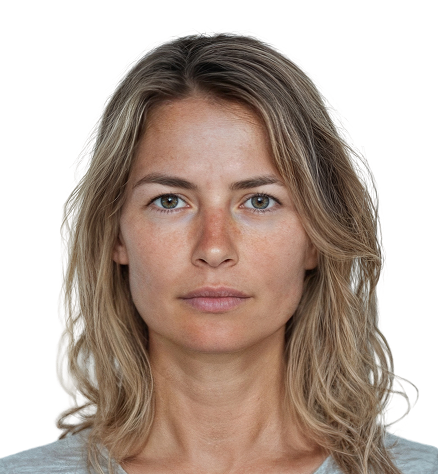
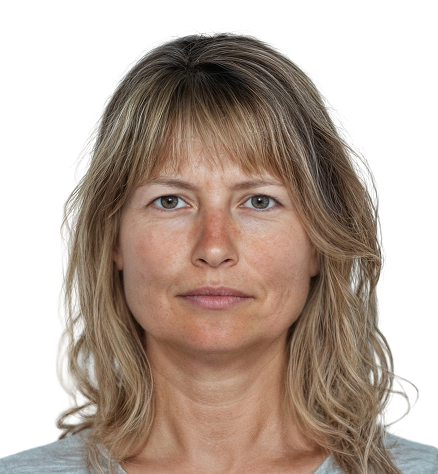
refactor(HeroSection): separate rounded rectangle

diff --git a/src/components/sections/HeroSection/index.tsx b/src/components/sections/HeroSection/index.tsx
@@ -4,6 +4,7 @@ import { useEffect, useRef, useState } from 'react';
 import Image from 'next/image';
 import { gsap } from 'gsap';
 import { ScrollTrigger } from 'gsap/ScrollTrigger';
+import { MotionPathPlugin } from 'gsap/MotionPathPlugin';
 import styles from './HeroSection.module.scss';
 
 const STEPS = [
@@ -15,37 +16,96 @@ const STEPS = [
 
 export default function HeroSection() {
   const [activeStep, setActiveStep] = useState(1);
-  const [sliderVal, setSliderVal] = useState(50);
 
-  const sectionRef = useRef<HTMLElement>(null);
-  const labelRef = useRef<HTMLParagraphElement>(null);
-  const headingRef = useRef<HTMLHeadingElement>(null);
-  const subtitleRef = useRef<HTMLParagraphElement>(null);
+  const sectionRef    = useRef<HTMLElement>(null);
+  const labelRef      = useRef<HTMLParagraphElement>(null);
+  const headingRef    = useRef<HTMLHeadingElement>(null);
+  const subtitleRef   = useRef<HTMLParagraphElement>(null);
+  const compRef       = useRef<HTMLDivElement>(null);
   const beforeCardRef = useRef<HTMLDivElement>(null);
-  const centerRef = useRef<HTMLDivElement>(null);
-  const afterCardRef = useRef<HTMLDivElement>(null);
-  const stepsRef = useRef<HTMLDivElement>(null);
+  const centerRef     = useRef<HTMLDivElement>(null);
+  const afterCardRef  = useRef<HTMLDivElement>(null);
+  const stepsRef      = useRef<HTMLDivElement>(null);
+
+  // SVG refs
+  const svgRef   = useRef<SVGSVGElement>(null);
+  const path1Ref = useRef<SVGPathElement>(null);
+  const path2Ref = useRef<SVGPathElement>(null);
+  const dot1Ref  = useRef<SVGCircleElement>(null);
+  const dot2Ref  = useRef<SVGCircleElement>(null);
 
   useEffect(() => {
-    gsap.registerPlugin(ScrollTrigger);
+    gsap.registerPlugin(ScrollTrigger, MotionPathPlugin);
 
+    // ── Entrance animation ──────────────────────────────────
     const ctx = gsap.context(() => {
       const tl = gsap.timeline({ defaults: { ease: 'power3.out' } });
-
-      tl.from(labelRef.current, { y: 12, opacity: 0, duration: 0.75 })
-        .from(headingRef.current, { y: 28, opacity: 0, duration: 1 }, '-=0.45')
-        .from(subtitleRef.current, { y: 16, opacity: 0, duration: 0.75 }, '-=0.55')
+      tl.from(labelRef.current,      { y: 12, opacity: 0, duration: 0.75 })
+        .from(headingRef.current,    { y: 28, opacity: 0, duration: 1    }, '-=0.45')
+        .from(subtitleRef.current,   { y: 16, opacity: 0, duration: 0.75 }, '-=0.55')
         .from(beforeCardRef.current, { x: -36, opacity: 0, duration: 0.95 }, '-=0.45')
-        .from(afterCardRef.current, { x: 36, opacity: 0, duration: 0.95 }, '<')
-        .from(centerRef.current, { opacity: 0, duration: 0.6 }, '-=0.6')
-        .from(
-          stepsRef.current!.children,
-          { y: 12, opacity: 0, duration: 0.5, stagger: 0.09 },
-          '-=0.5',
-        );
+        .from(afterCardRef.current,  { x:  36, opacity: 0, duration: 0.95 }, '<')
+        .from(centerRef.current,     { opacity: 0, duration: 0.5 }, '-=0.7')
+        .from(stepsRef.current!.children,
+          { y: 12, opacity: 0, duration: 0.5, stagger: 0.09 }, '-=0.5');
     }, sectionRef);
 
-    return () => ctx.revert();
+    // ── Perimeter path animation ────────────────────────────
+    const timer = setTimeout(() => {
+      const comp   = compRef.current;
+      const before = beforeCardRef.current;
+      const after  = afterCardRef.current;
+      const svg    = svgRef.current;
+      const p1     = path1Ref.current;
+      const p2     = path2Ref.current;
+      const d1     = dot1Ref.current;
+      const d2     = dot2Ref.current;
+      if (!comp || !before || !after || !svg || !p1 || !p2 || !d1 || !d2) return;
+
+      const beforeRect = before.getBoundingClientRect();
+      const afterRect  = after.getBoundingClientRect();
+      const compRect   = comp.getBoundingClientRect();
+
+      svg.setAttribute('viewBox', `0 0 ${compRect.width} ${compRect.height}`);
+
+      const PAD = 19;
+
+      // Before card: 19px padding on all four sides
+      const bx1 = beforeRect.left   - compRect.left - PAD;
+      const by1 = beforeRect.top    - compRect.top  - PAD;
+      const bx2 = beforeRect.right  - compRect.left + PAD;
+      const by2 = beforeRect.bottom - compRect.top  + PAD;
+      p1.setAttribute('d', `M ${bx1},${by1} H ${bx2} V ${by2} H ${bx1} Z`);
+
+      // After card: 19px padding on all four sides
+      const ax1 = afterRect.left   - compRect.left - PAD;
+      const ay1 = afterRect.top    - compRect.top  - PAD;
+      const ax2 = afterRect.right  - compRect.left + PAD;
+      const ay2 = afterRect.bottom - compRect.top  + PAD;
+      p2.setAttribute('d', `M ${ax1},${ay1} H ${ax2} V ${ay2} H ${ax1} Z`);
+
+      // dot1 travels the Before card rectangle
+      gsap.to(d1, {
+        motionPath: { path: p1, align: p1, alignOrigin: [0.5, 0.5] as [number, number] },
+        duration: 6,
+        repeat: -1,
+        ease: 'none',
+      });
+
+      // dot2 travels the After card rectangle, offset in time
+      gsap.to(d2, {
+        motionPath: { path: p2, align: p2, alignOrigin: [0.5, 0.5] as [number, number] },
+        duration: 6,
+        delay: 0.55,
+        repeat: -1,
+        ease: 'none',
+      });
+    }, 150);
+
+    return () => {
+      ctx.revert();
+      clearTimeout(timer);
+    };
   }, []);
 
   return (
@@ -66,50 +126,49 @@ export default function HeroSection() {
         </div>
 
         {/* ── Before / After ── */}
-        <div className={styles.comparison}>
+        <div ref={compRef} className={styles.comparison}>
+
           <div ref={beforeCardRef} className={styles.compareCard}>
             <span className={styles.compareLabel}>Before</span>
             <div className={styles.imgWrap}>
               <Image
-                src="/images/before1.png"
+                src="/images/Before.png"
                 alt="Before"
                 fill
-                sizes="(max-width: 768px) 100vw, 45vw"
+                sizes="(max-width: 437.73px) 100vw, 45vw"
                 style={{ objectFit: 'cover', objectPosition: 'center top' }}
                 priority
               />
             </div>
           </div>
 
-          <div ref={centerRef} className={styles.compareCenter}>
-            <div className={styles.sliderScore}>
-              <span className={styles.sliderScoreNum}>{sliderVal}%</span>
-              match
-            </div>
-            <input
-              type="range"
-              className={styles.rangeInput}
-              min={0}
-              max={100}
-              value={sliderVal}
-              onChange={(e) => setSliderVal(Number(e.target.value))}
-              aria-label="Comparison score"
-            />
-          </div>
+          {/* Centre spacer */}
+          <div ref={centerRef} className={styles.compareCenter} />
 
           <div ref={afterCardRef} className={styles.compareCard}>
             <span className={styles.compareLabel}>After</span>
             <div className={styles.imgWrap}>
               <Image
-                src="/images/before.png"
+                src="/images/After.png"
                 alt="After"
                 fill
-                sizes="(max-width: 768px) 100vw, 45vw"
+                sizes="(max-width: 437.73px) 100vw, 45vw"
                 style={{ objectFit: 'cover', objectPosition: 'center top' }}
                 priority
               />
             </div>
           </div>
+
+          {/* SVG: two card-outline paths + one dot per card */}
+          <svg ref={svgRef} className={styles.pathSvg} aria-hidden="true">
+            <path ref={path1Ref} className={styles.pathLine} />
+            <path ref={path2Ref} className={styles.pathLine} />
+            {/* lead dot — travels Before card path */}
+            <circle ref={dot1Ref} r="4.5" className={styles.dot} />
+            {/* trail dot — travels After card path */}
+            <circle ref={dot2Ref} r="3"   className={styles.dotTrail} />
+          </svg>
+
         </div>
 
         {/* ── Steps ── */}

diff --git a/src/components/sections/HeroSection/HeroSection.module.scss b/src/components/sections/HeroSection/HeroSection.module.scss
@@ -60,10 +60,16 @@
 
 /* ── Comparison ───────────────────────────────────────── */
 .comparison {
+  position: relative;
   display: grid;
-  grid-template-columns: 1fr 108px 1fr;
-  align-items: stretch;
+  grid-template-columns: 437.73px 405px 437.73px;
+  justify-content: center;
+  align-items: start;
   gap: 0;
+
+  @include respond(lg) {
+    grid-template-columns: minmax(0, 437.73px) minmax(80px, 405px) minmax(0, 437.73px);
+  }
 
   @include respond(md) {
     grid-template-columns: 1fr;
@@ -75,8 +81,15 @@
   position: relative;
   border-radius: 10px;
   overflow: hidden;
-  aspect-ratio: 3 / 4;
+  width: 437.73px;
+  height: 500.16px;
   background: #D7E5EB;
+
+  @include respond(lg) {
+    width: 100%;
+    height: auto;
+    aspect-ratio: 437.73 / 500.16;
+  }
 }
 
 .compareLabel {
@@ -100,77 +113,34 @@
   inset: 0;
 }
 
-/* ── Center column ────────────────────────────────────── */
+/* ── Centre gap (pure grid spacer) ───────────────────── */
 .compareCenter {
-  display: flex;
-  flex-direction: column;
-  align-items: center;
-  justify-content: center;
-  gap: 16px;
-  padding: 0 0 40px;
+  min-height: 1px;
 }
 
-.sliderScore {
-  font-family: $font-mono;
-  font-size: 0.65rem;
-  font-weight: 400;
-  color: $text-muted;
-  letter-spacing: 0.06em;
-  text-align: center;
-  line-height: 1.4;
+/* ── SVG comet-tail overlay ───────────────────────────── */
+.pathSvg {
+  position: absolute;
+  inset: 0;
+  width: 100%;
+  height: 100%;
+  pointer-events: none;
+  z-index: 2;
+  overflow: visible;
 }
 
-.sliderScoreNum {
-  display: block;
-  font-size: 1.1rem;
-  color: $text-secondary;
-  font-weight: 300;
-  letter-spacing: 0;
-  margin-bottom: 2px;
+.pathLine {
+  stroke: #C4D8DF;
+  stroke-width: 1;
+  fill: none;
 }
 
-.rangeWrap {
-  writing-mode: vertical-lr;
-  direction: rtl;
-  width: 2px;
-  height: 180px;
+.dot {
+  fill: #7AB8C6;
 }
 
-.rangeInput {
-  writing-mode: vertical-lr;
-  direction: rtl;
-  width: 180px;
-  height: 2px;
-  transform: rotate(90deg) translateX(-89px) translateY(-89px);
-  -webkit-appearance: none;
-  appearance: none;
-  background: #c8c8c4;
-  border-radius: 1px;
-  outline: none;
-  cursor: pointer;
-
-  &::-webkit-slider-thumb {
-    -webkit-appearance: none;
-    appearance: none;
-    width: 20px;
-    height: 20px;
-    border-radius: 50%;
-    background: $white;
-    border: 1px solid #d0d0ce;
-    box-shadow: 0 1px 6px rgba(0, 0, 0, 0.12);
-    cursor: pointer;
-  }
-
-  &::-moz-range-thumb {
-    width: 20px;
-    height: 20px;
-    border-radius: 50%;
-    background: $white;
-    border: 1px solid #d0d0ce;
-    box-shadow: 0 1px 6px rgba(0, 0, 0, 0.12);
-    cursor: pointer;
-    border: none;
-  }
+.dotTrail {
+  fill: #7AB8C6;
 }
 
 /* ── Steps ────────────────────────────────────────────── */